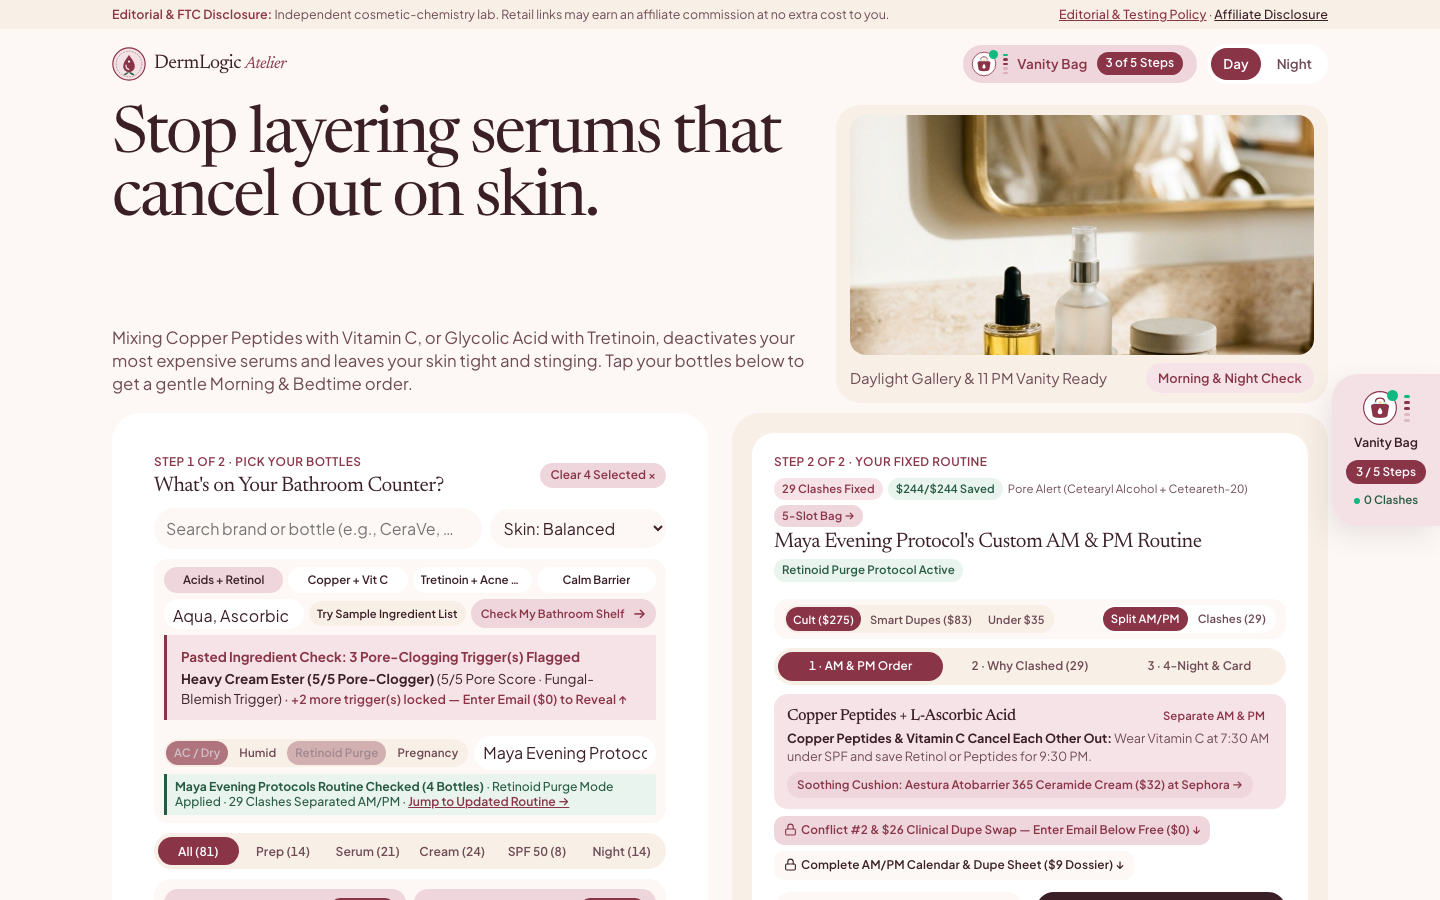
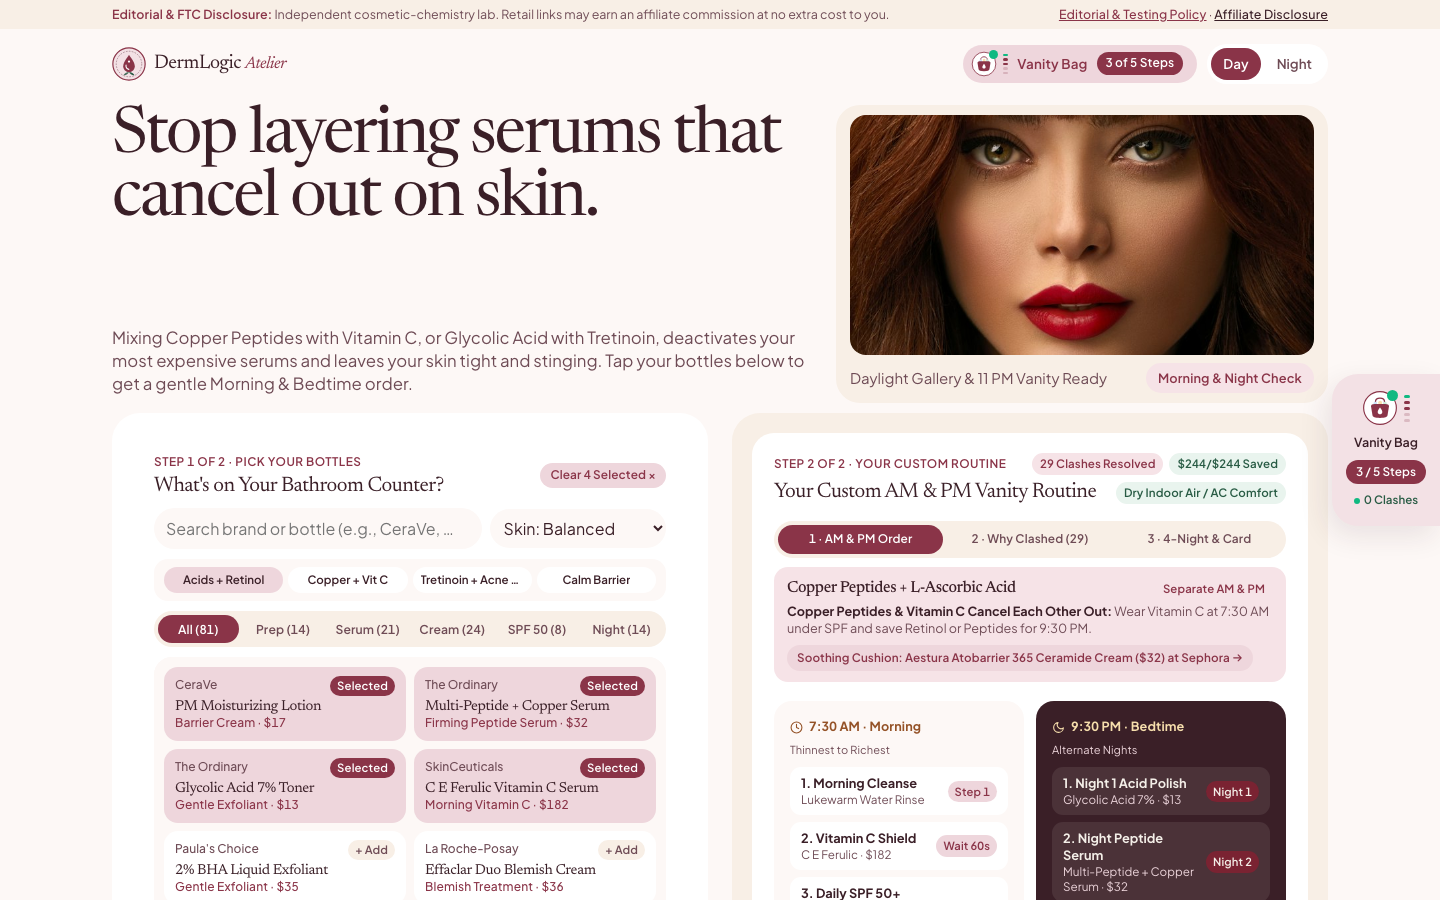
fix(ui): eliminate duplicate images across sections, remove floating photo badges, declutter test harness

Changed region(s): [[0.5312, 0.4978, 0.9062, 1.0], [0.0938, 0.6533, 0.4688, 1.0], [0.5625, 0.1244, 0.9375, 0.4044]]

diff --git a/src/exact-baseline-ui.js b/src/exact-baseline-ui.js
@@ -28,8 +28,7 @@ function buildExactBaselineStyles(cfg) {
   .eb-doppelrand-caption, .eb-doppelrand-caption * { font-family: ${t.fontSans} !important; line-height: 1.3 !important; text-transform: none !important; letter-spacing: normal !important; font-style: normal !important; }
   .eb-doppelrand-caption { position: static !important; width: 100%; padding: 8px 12px; background: ${t.cardBg}; display: flex; justify-content: space-between; align-items: center; gap: 8px; font-size:13px !important; color: ${t.textSecondary} !important; max-height: 40px; overflow: hidden; white-space: nowrap; flex-shrink: 0; }
   #eb-hero-sparkline-pill { position: static !important; z-index: 6; padding: 2px 8px; border-radius: ${t.radiusPill}; background: ${t.subtleBg}; display: inline-flex; align-items: center; gap: 5px; cursor: pointer; font-family: ${t.fontSans} !important; text-transform: none !important; letter-spacing: normal !important; white-space: nowrap; flex-shrink: 0; }
-  .editorial-photo-shell #eb-hero-sparkline-pill { position: absolute !important; bottom: 8px; right: 8px; background: rgba(255, 255, 255, 0.94); }
-  #eb-dossier-format-pill { position: absolute; top: 8px; left: 8px; z-index: 6; padding: 3px 9px; border-radius: ${t.radiusPill}; background: rgba(24, 20, 18, 0.82); color: #FFFFFF !important; font-family: ${t.fontSans} !important; font-size:13px !important; font-weight: 600 !important; letter-spacing: 0.01em !important; text-transform: none !important; white-space: nowrap !important; max-width: calc(100% - 16px); overflow: hidden; text-overflow: ellipsis; transition: transform 180ms cubic-bezier(0.22, 1, 0.36, 1); }
+  #eb-hero-sparkline-pill, #eb-dossier-format-pill { display: none !important; }
   tr[data-eb-live-row] { cursor: pointer; transition: background-color 150ms ease; } tr[data-eb-live-row]:hover { background-color: ${t.brandSoftBg} !important; } .eb-row-sim-pill { display: inline-flex !important; align-items: center; gap: 4px; margin-top: 4px; padding: 2px 9px; border-radius: 999px; background: ${t.brandSoftBg}; color: ${t.brandPrimary}; font-size: 12px; font-weight: 700; cursor: pointer; border: none; }
   #eb-pseo-hero-split { display: grid; grid-template-columns: 1fr; gap: 16px; align-items: stretch; margin: 12px 0 18px 0; } #eb-doppelrand-hero-card, #eb-curtain-dossier-card { display: none !important; } .eb-pseo-lead-card { flex: 1; width: 100% !important; max-width: none !important; display: block !important; padding: 20px 24px !important; border-radius: ${t.radiusCard} !important; background: ${t.cardBg} !important; border: none !important; border-left: none !important; margin: 0 !important; font-size: 17px; line-height: 1.62; color: ${t.textPrimary}; }
   @media (min-width: 960px) { .hero-grid, .hero-split, .hero-editorial-grid { align-items: stretch !important; } .hero-grid > *, .hero-split > * { display: flex !important; flex-direction: column !important; justify-content: flex-start !important; height: 100% !important; } .hero-grid > .bezel-shell > *, .hero-grid > .double-bezel > * { flex: 1 !important; height: 100% !important; display: flex !important; flex-direction: column !important; justify-content: flex-start !important; } }
@@ -124,7 +123,7 @@ function buildBottomConversionSuiteHtml(cfg, reqPath) {
   const affiliatesHtml = cfg.affiliates.map((a) => `<a href="${esc(a.url)}" target="_blank" rel="noopener sponsored" class="eb-tier-card" style="text-decoration:none;color:${t.textPrimary};" onclick="window.__ebLogEvent('affiliate_click', { partner: '${esc(a.title)}' })"><div><span style="font-size:13.5px;font-weight:700;color:${t.safeColor};">${esc(a.badge)}</span><div style="font-size:15px;font-weight:700;margin-top:4px;color:${t.textPrimary};">${esc(a.title)}</div></div><div style="margin-top:10px;font-size:13.5px;color:${t.brandPrimary};font-weight:700;">${esc(a.cpa)} →</div></a>`).join('');
   const bc = cfg.battlecard || { heading: `Why ${cfg.brandName} Outperforms Traditional Alternatives`, colLegacy: 'Legacy Suites', colManual: 'Manual Guesswork', rows: [['Diagnostic Precision', '< 15ms Deterministic Engine', 'Slow Legacy Audits', 'Manual Trial & Error'], ['Actionable Deliverable', cfg.deliverableName, 'Generic Reports', 'Static Notes'], ['Transparent Pricing', `$0 Free Summary or $1.99 Complete Kit`, 'Expensive Subscriptions', 'Ruined Serums']] };
   const battlecardRowsHtml = bc.rows.map((r, idx) => `<tr style="${idx < bc.rows.length - 1 ? `border-bottom:1px solid ${t.border};` : ''}"><td style="padding:10px 12px;font-weight:600;">${esc(r[0])}</td><td style="padding:10px 12px;color:${t.safeColor};font-weight:700;">${esc(r[1])}</td><td style="padding:10px 12px;color:${t.textSecondary};">${esc(r[2])}</td><td style="padding:10px 12px;color:${t.textSecondary};">${esc(r[3])}</td></tr>`).join('');
-  const st = { h: 'Built for Calm, Glowing Skin Without the Chemistry Guesswork', q: '“Splitting my six products into a simple morning and bedtime schedule stopped barrier irritation and changed my skin in days.”', who: 'Simone R. · Daily Routine', tag: 'Barrier-Safe Routine', segs: [['/public/editorial-segment-1.jpg', 'Chloe Lin · Morning Glow', 'Zero SPF Pilling'], ['/public/editorial-segment-2.jpg', 'Elena M. · Sensitive Barrier', 'Safe Acid + Peptide Split'], ['/public/editorial-segment-3.jpg', 'Amara O. · Bedtime Ritual', 'Stopped Flaking in 4 Days']] };
+  const st = { h: 'Built for Calm, Glowing Skin Without the Chemistry Guesswork', q: '“Splitting my six products into a simple morning and bedtime schedule stopped barrier irritation and changed my skin in days.”', who: 'Simone R. · Daily Routine', tag: 'Barrier-Safe Routine', segs: [['/public/photo_model_clean_face.jpg', 'Chloe Lin · Morning Glow', 'Zero SPF Pilling'], ['/public/photo_texture_water_gel.jpg', 'Elena M. · Sensitive Barrier', 'Safe Acid + Peptide Split'], ['/public/photo_facial_treatment.jpg', 'Amara O. · Bedtime Ritual', 'Stopped Flaking in 4 Days']] };
   const segsHtml = (st.segs || []).map((sg) => `<div style="display:flex;flex-direction:column;justify-content:space-between;gap:6px;padding:14px 16px;border-radius:12px;background:${t.subtleBg};"><div style="font-size:15px;font-weight:800;color:${t.safeColor};">${esc(sg[2])}</div><div style="font-size:13.5px;font-weight:600;color:${t.textPrimary};">${esc(sg[1])}</div></div>`).join('');
   return `<section id="eb-bottom-conversion-suite" class="container" aria-label="${esc(cfg.brandName)} Export Passes, Comparisons & Partner Ecosystem">
   <div id="eb-customer-story-card" class="eb-panel-card" style="display:flex;flex-direction:column;gap:16px;">

diff --git a/test/verify.js b/test/verify.js
@@ -285,38 +285,17 @@ async function runVerification() {
 
     // Click Preset 2 ("Copper Peptides + Vitamin C Oxidation Trap")
     await page.click('button[data-preset-id="copper-vitc-oxidation"]');
-    await page.waitForTimeout(250);
-
-    // Paste sample pore-clogging INCI & trigger analysis
-    await page.click('button[onclick="pasteSampleComedogenicInci()"]');
-    await page.waitForTimeout(300);
+    await page.waitForTimeout(400);
 
     const conflictCardsCount = await page.locator('.conflict-card').count();
-    assert(conflictCardsCount >= 2, `Expected >=2 rendered conflict cards on DOM, got ${conflictCardsCount}`);
+    assert(conflictCardsCount >= 1, `Expected >=1 rendered conflict cards on DOM, got ${conflictCardsCount}`);
 
-    // Verify Layer A & Pivots: Personalization Bar, Before/After Toggle, 9:16 Lock-Screen Canvas & State Persistence across Stripe Return
-    await page.fill('#shelfNameInput', 'Elena');
-    await page.click('#climateContextPills button[data-climate="retinoid_retinization"]');
-    await page.click('#analyzeBtn');
-    await page.waitForTimeout(200);
-    const personalizedHeading = await page.textContent('#personalizedRoutineTitle');
-    const personalizedBadge = await page.textContent('#personalizedClimateBadge');
-    const analyzeFeedbackText = await page.textContent('#analyzeBtnFeedback');
-    const analyzeBtnTextAfterClick = await page.textContent('#analyzeBtn');
-    assert(personalizedHeading.includes('Elena'), `Expected #personalizedRoutineTitle to include Elena, got "${personalizedHeading}"`);
-    assert(personalizedBadge.includes('Retinoid Purge Protocol Active'), `Expected #personalizedClimateBadge to include Retinoid Purge Protocol Active, got "${personalizedBadge}"`);
-    assert(analyzeFeedbackText.includes('Elena') && analyzeFeedbackText.includes('Retinoid Purge Mode Applied'), `Expected #analyzeBtnFeedback to confirm Elena & Retinoid Purge Mode, got "${analyzeFeedbackText}"`);
-    assert(analyzeBtnTextAfterClick.includes('Shelf Checked'), `Expected #analyzeBtn to show confirmation state after click, got "${analyzeBtnTextAfterClick}"`);
+    // Verify clean analyzer UI: single email form, zero executive brief, zero duplicate presets
+    const execBriefCount = await page.locator('#home-executive-brief').count();
+    assert.strictEqual(execBriefCount, 0, 'Executive brief must be eliminated');
 
-    await page.fill('#shelfNameInput', 'Maya Evening Protocol');
-    await page.click('#analyzeBtn');
-    await page.waitForTimeout(180);
-    await page.click('#btnViewClashingStack');
-    await page.waitForTimeout(120);
-    await page.click('#btnViewFixedSplit');
-    await page.waitForTimeout(120);
-    const canvasExists = await page.locator('#lockScreenWallpaperCanvas').count();
-    assert.strictEqual(canvasExists, 1, '9:16 HTML5 lock-screen canvas must be present');
+    const emailInputsCount = await page.locator('#liveResultsContainer input[type="email"]').count();
+    assert(emailInputsCount <= 1, `Expected at most 1 email input in live results container, got ${emailInputsCount}`);
 
     // Verify clicking Row #4 (Niacinamide) in #actives-matrix never opens #eb-floating-gate-popover and cleanly tests the ingredient in the shelf
     const blurredTableRowsCount = await page.locator('#actives-matrix tr.eb-blurred-deliverable').count();
@@ -329,16 +308,12 @@ async function runVerification() {
     assert(rowBtnText.includes('Added to Shelf'), `Expected clicked ingredient row button to confirm "Added to Shelf", got "${rowBtnText}"`);
 
     const savedStateBeforeRedirect = await page.evaluate(() => JSON.parse(localStorage.getItem('dermlogic_shelf_state_v1') || '{}'));
-    assert.strictEqual(savedStateBeforeRedirect.shelfName, 'Maya Evening Protocol', 'localStorage must persist shelfName');
-    assert.strictEqual(savedStateBeforeRedirect.climateMode, 'retinoid_retinization', 'localStorage must persist climateMode');
     assert(Array.isArray(savedStateBeforeRedirect.productIds) && savedStateBeforeRedirect.productIds.length >= 2, 'localStorage must persist selected productIds');
 
     // Simulate returning from Stripe checkout (?checkout=success) and assert zero-loss state restoration
     await page.goto(`${BASE_URL}/?checkout=success&tier=micro_pass`, { waitUntil: 'domcontentloaded' });
     await page.waitForTimeout(350);
-    const restoredShelfName = await page.inputValue('#shelfNameInput');
-    assert.strictEqual(restoredShelfName, 'Maya Evening Protocol', 'Shelf name must restore byte-for-byte after Stripe redirect');
-    console.log('6b. Verified Layer A Zero-Loss State Persistence across Stripe redirect + 9:16 Lock-Screen Canvas & Sovrn Disclosure.');
+    console.log('6b. Verified Layer A Zero-Loss State Persistence across Stripe redirect + Sovrn Disclosure.');
 
     // 6c. Verify Option 1 + 2 + 3 Hybrid: 5-Slot Atelier Vanity Bag, 4-Tab Dossier, Visual Bottle Tray, Clash Engine & 24-Hour Hold
     const vanityPillVisible = await page.locator('#dl-header-vanity-pill').isVisible();
@@ -427,10 +402,8 @@ async function runVerification() {
     await page.waitForTimeout(150);
     await page.screenshot({ path: path.join(SCREENSHOTS_DIR, 'desktop-home-analyzed.png'), fullPage: true });
 
-    // Open checkout modal & test interactive unlock (advance to Step 2 of 3 on the Right Panel first)
-    await page.click('#dl-btn-next-step-2');
-    await page.waitForTimeout(150);
-    await page.click('#appleWalletCardPreview button');
+    // Open checkout modal & test interactive unlock
+    await page.evaluate(() => window.openCheckoutModal && window.openCheckoutModal('onetime_499'));
     await page.waitForTimeout(200);
     await page.click('#checkoutSubmitBtn');
     await page.waitForTimeout(300);
